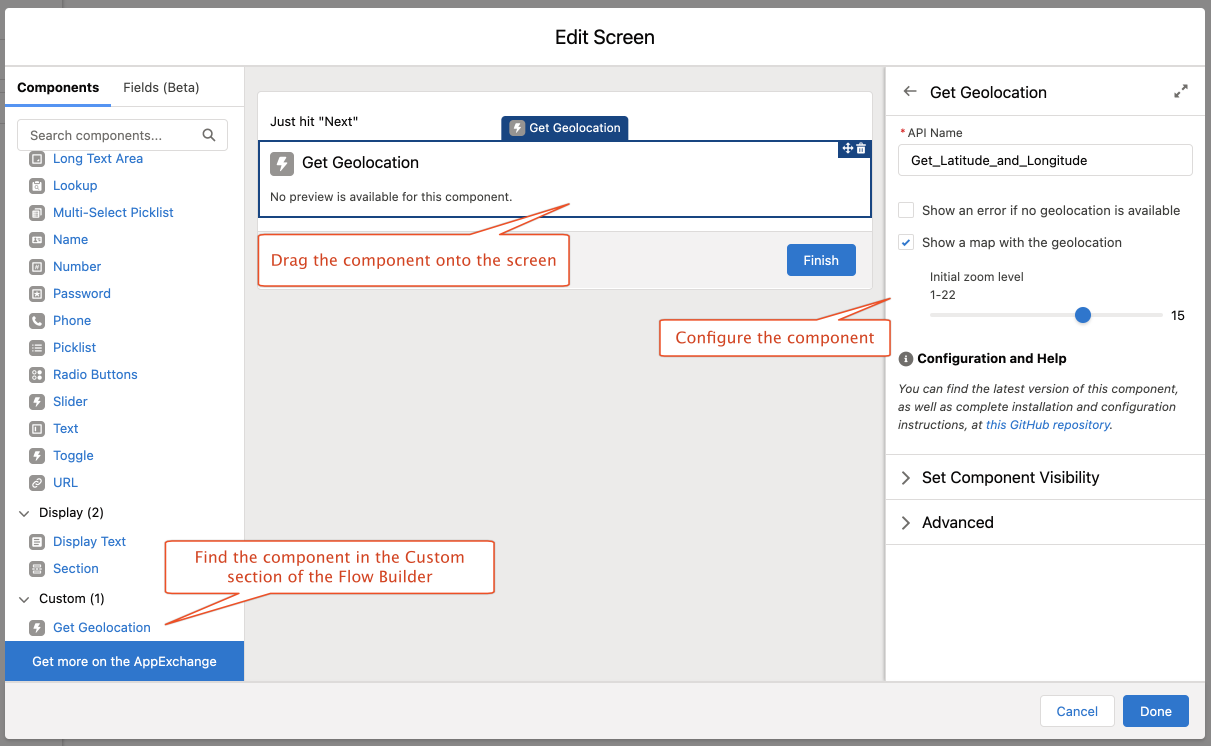
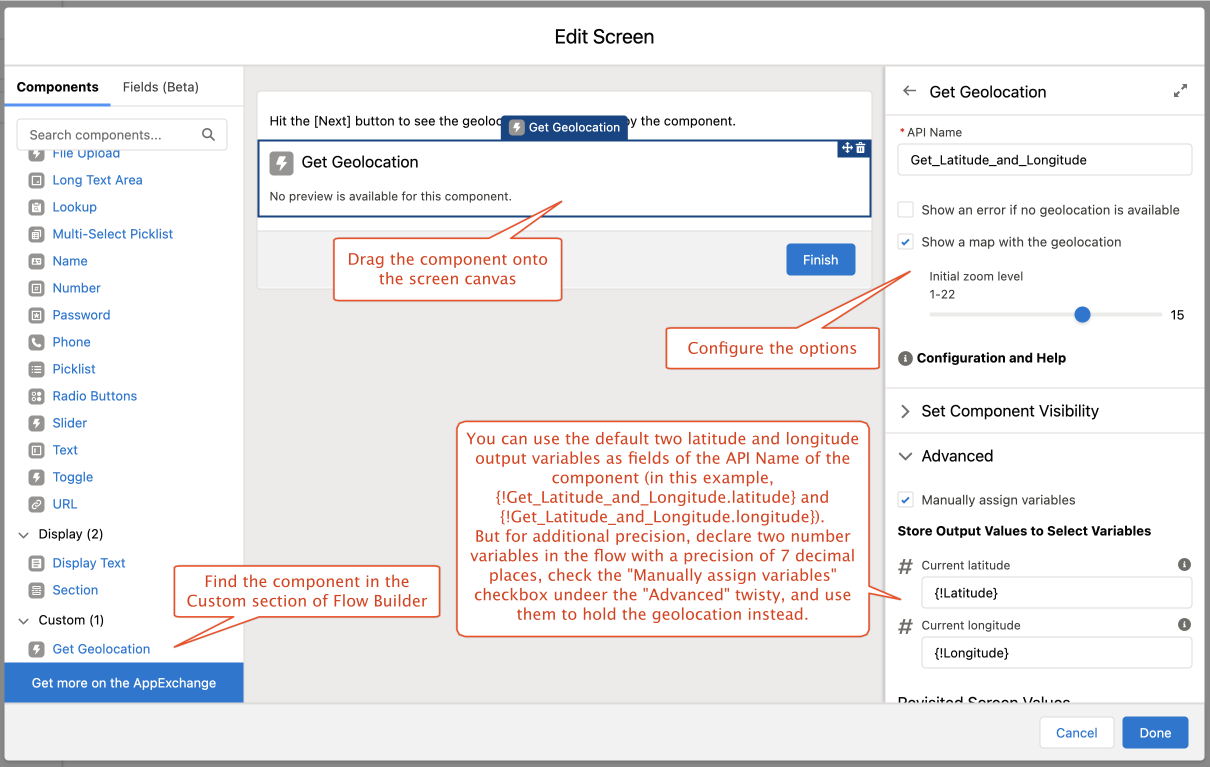
Updated README

diff --git a/README.md b/README.md
@@ -13,17 +13,23 @@ This Lightning Web Component is intended to be a (mostly) silent component that 
 
 Read the disclaimer below and click on the **Install the Package** link. This will install the component to your org.
 
-![Installation and Setup](/images/GeolocationFlowComponent.png)
+![Installation](/images/Installation.png)
+
+If you are a Salesforce employee installing in an SDO, CDO, or IDO, you probably want to make sure that you select the button under the "Advanced" twisty to compile only the Apex in the package (although there is no Apex in the package).
 
 The component is meant to be a minimalist mechanism for returning the latitude and longitude of the device's location to a Salesforce screen flow. To add the component to a flow, look for it in the **Custom** section of the Flow Builder. Simply drag it onto the screen and configure it.
 
-There are two options you can configure for additional capability:
+![Installation and Setup](/images/GeolocationFlowComponent.png)
+
+There are three options you can configure for additional capability:
 
 - **Show an error if no geolocation is available**: Check this if you wish an error toast to appear if the device does not support geolocation. Note that you might have to approve geolocation for the device or the application to avoid errors.
 - **Show a map with the geolocation**: Check this if you want the component to display a Google map with the device's location.
 - **Initial zoom level**: Choose an initial zoom level for the map, if selected.
 
-The component will return two variables, `latitude` and `longitude`, as output variables to the flow.
+The component will return two variables, `latitude` and `longitude`, as output variables to the flow. The will be the latitude and longitude, respectively, of the device's location expressed as decimal numbers (not degrees, minutes, and seconds).  If you use the default variables from the component, `{!*API Name*.latitude}` and `{!*API Name*.longitude}`, you may get truncation of the decimal portion of the returned values. In order to prevent this, declare a pair of `Number` variables in the flow, one for latitude and one for longitude, with a precision of 7 decimal places to hold the returned geolocation:
+
+![Variables](/images/Variables.png)
 
 There is an example flow called `Example Flow for Get Geolocation LWC` included in the package that you can use as a template. Make sure that you make a copy before you make changes to it as it will be overwritten the next time you upgrade the package.
 
